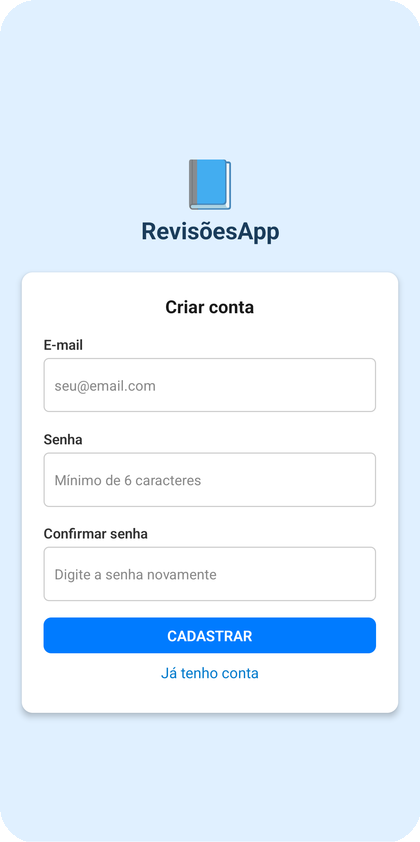
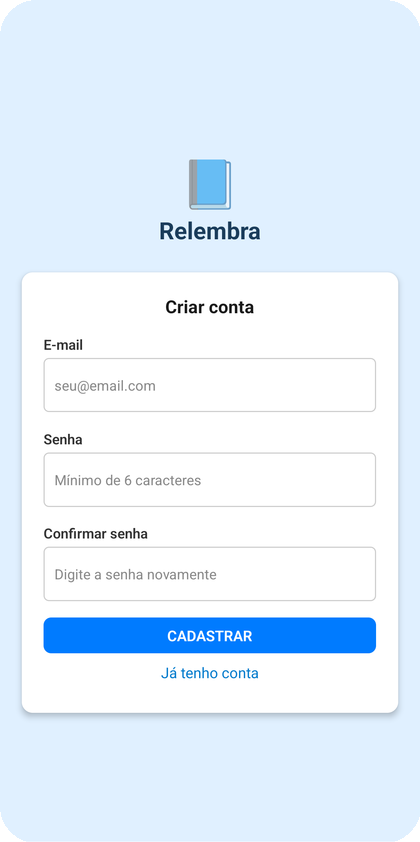
Atualiza prints e README com categorias e o nome Relembra

Changed region(s): [[0.3405, 0.1853, 0.681, 0.3088]]

diff --git a/README.md b/README.md
@@ -29,7 +29,7 @@ O **Relembra** é um aplicativo mobile para quem estuda com **revisões programa
 O projeto nasceu como uma ferramenta de uso pessoal, que eu uso no dia a dia, e evoluiu para um app multiusuário com arquitetura em camadas, autenticação completa e foco em código limpo.
 
 <p align="center">
-  <img src="docs/images/vitrine.png" alt="Telas do Relembra: login, lista de revisões e edição" width="100%" />
+  <img src="docs/images/vitrine.png" alt="Telas do Relembra: login, lista de revisões por categoria e edição" width="100%" />
 </p>
 
 ## ✨ Funcionalidades
@@ -46,9 +46,11 @@ O projeto nasceu como uma ferramenta de uso pessoal, que eu uso no dia a dia, e 
 
 ## 📱 Telas
 
-| Login | Cadastro | Lista de revisões | Busca | Edição |
-|:---:|:---:|:---:|:---:|:---:|
-| <img src="docs/images/login.png" width="170" alt="Tela de login" /> | <img src="docs/images/cadastro.png" width="170" alt="Tela de cadastro" /> | <img src="docs/images/lista.png" width="170" alt="Lista de revisões" /> | <img src="docs/images/pesquisa.png" width="170" alt="Busca filtrando revisões" /> | <img src="docs/images/edicao.png" width="170" alt="Modal de edição" /> |
+| Login | Cadastro | Lista de revisões |
+|:---:|:---:|:---:|
+| <img src="docs/images/login.png" width="230" alt="Tela de login" /> | <img src="docs/images/cadastro.png" width="230" alt="Tela de cadastro" /> | <img src="docs/images/lista.png" width="230" alt="Lista de revisões com cards coloridos por categoria" /> |
+| **Filtro por categoria** | **Todas as categorias** | **Edição** |
+| <img src="docs/images/filtro.png" width="230" alt="Lista filtrada pela categoria Programação" /> | <img src="docs/images/categorias.png" width="230" alt="Lista de categorias com contagem e exclusão" /> | <img src="docs/images/edicao.png" width="230" alt="Tela de edição com prévia recolhida do conteúdo" /> |
 
 > Os prints foram feitos num aparelho Android real, com uma conta de demonstração.
 
@@ -230,8 +232,8 @@ usuarios/
 ### Desenvolvimento
 
 ```bash
-git clone https://github.com/unifkaraujo/App-Revisoes.git
-cd App-Revisoes
+git clone https://github.com/unifkaraujo/relembra.git
+cd relembra
 npm install
 
 npm start            # terminal 1: Metro bundler
